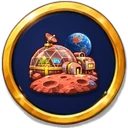
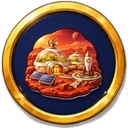
Mars Base art for the Science card and the Red planet achievement badge
Claude-Session: https://claude.ai/code/session_01PGxfpcX8yQ2dVm6AUd14bJ

Changed region(s): [[0.1875, 0.2188, 0.8125, 0.8125]]

diff --git a/index.html b/index.html
@@ -18,7 +18,7 @@
   <link href="https://fonts.googleapis.com/css2?family=Lilita+One&display=swap" rel="stylesheet">
   <meta property="og:image" content="assets/logo/share.jpg">
   <meta name="twitter:card" content="summary_large_image">
-  <link rel="stylesheet" href="css/style.css?v=20261117e">
+  <link rel="stylesheet" href="css/style.css?v=20261117f">
 </head>
 <body>
   <!-- ===== Loading screen (removed when the game has started) ===== -->
@@ -565,30 +565,30 @@
   <div id="tipCard" hidden role="status"></div>
   <div id="tutBubble" hidden role="dialog" aria-label="Guided start"></div>
   <!-- Game code, split by section. Files share one global scope and must load in this order. -->
-  <script src="js/00-phone.js?v=20261117e"></script>
-  <script src="js/01-core.js?v=20261117e"></script>
-  <script src="js/02-income.js?v=20261117e"></script>
-  <script src="js/03-casino.js?v=20261117e"></script>
-  <script src="js/04-investing.js?v=20261117e"></script>
-  <script src="js/05-settings.js?v=20261117e"></script>
-  <script src="js/06-casino-cards.js?v=20261117e"></script>
-  <script src="js/07-boosters.js?v=20261117e"></script>
-  <script src="js/08-sky-climb.js?v=20261117e"></script>
-  <script src="js/09-special.js?v=20261117e"></script>
-  <script src="js/10-plinko.js?v=20261117e"></script>
-  <script src="js/11-cosmetics.js?v=20261117e"></script>
-  <script src="js/12-logistics.js?v=20261117e"></script>
-  <script src="js/13-live-trading.js?v=20261117e"></script>
-  <script src="js/14-world-map.js?v=20261117e"></script>
-  <script src="js/15-achievements.js?v=20261117e"></script>
-  <script src="js/16-prestige.js?v=20261117e"></script>
-  <script src="js/17-wiki.js?v=20261117e"></script>
-  <script src="js/18-art.js?v=20261117e"></script>
-  <script src="js/19-science.js?v=20261117e"></script>
-  <script src="js/20-tips.js?v=20261117e"></script>
-  <script src="js/21-clock.js?v=20261117e"></script>
-  <script src="js/22-main-menu.js?v=20261117e"></script>
-  <script src="js/23-minigames.js?v=20261117e"></script>
-  <script src="js/24-genetics.js?v=20261117e"></script>
+  <script src="js/00-phone.js?v=20261117f"></script>
+  <script src="js/01-core.js?v=20261117f"></script>
+  <script src="js/02-income.js?v=20261117f"></script>
+  <script src="js/03-casino.js?v=20261117f"></script>
+  <script src="js/04-investing.js?v=20261117f"></script>
+  <script src="js/05-settings.js?v=20261117f"></script>
+  <script src="js/06-casino-cards.js?v=20261117f"></script>
+  <script src="js/07-boosters.js?v=20261117f"></script>
+  <script src="js/08-sky-climb.js?v=20261117f"></script>
+  <script src="js/09-special.js?v=20261117f"></script>
+  <script src="js/10-plinko.js?v=20261117f"></script>
+  <script src="js/11-cosmetics.js?v=20261117f"></script>
+  <script src="js/12-logistics.js?v=20261117f"></script>
+  <script src="js/13-live-trading.js?v=20261117f"></script>
+  <script src="js/14-world-map.js?v=20261117f"></script>
+  <script src="js/15-achievements.js?v=20261117f"></script>
+  <script src="js/16-prestige.js?v=20261117f"></script>
+  <script src="js/17-wiki.js?v=20261117f"></script>
+  <script src="js/18-art.js?v=20261117f"></script>
+  <script src="js/19-science.js?v=20261117f"></script>
+  <script src="js/20-tips.js?v=20261117f"></script>
+  <script src="js/21-clock.js?v=20261117f"></script>
+  <script src="js/22-main-menu.js?v=20261117f"></script>
+  <script src="js/23-minigames.js?v=20261117f"></script>
+  <script src="js/24-genetics.js?v=20261117f"></script>
 </body>
 </html>
